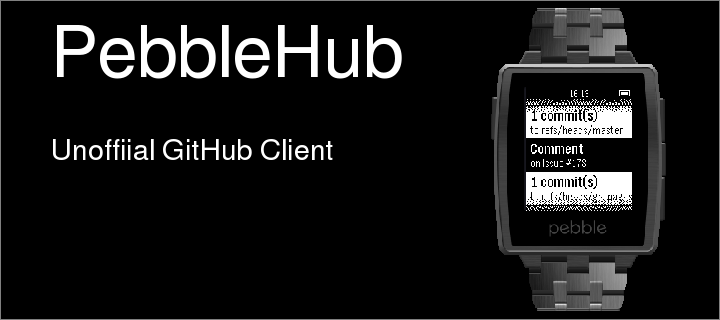
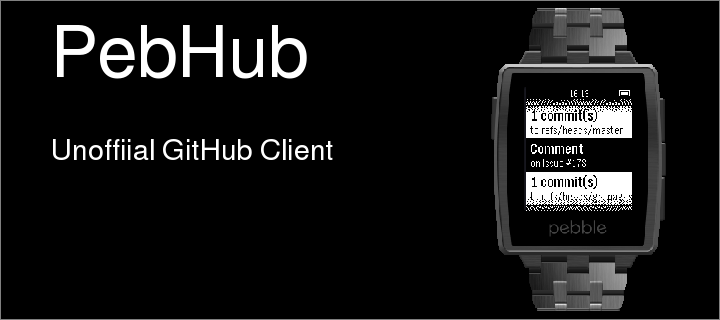
Renamed app from "PebbleHub" to "PebHub"
Added error message when the GitHub API token cannot be read

Changed region(s): [[0.2444, 0.0625, 0.5806, 0.25]]

diff --git a/src/app.js b/src/app.js
@@ -331,6 +331,16 @@ loadingCard.show();
 var githubAccessToken = Settings.option("githubAccessToken");
 console.log("Read GitHub Access Token " + githubAccessToken);
 
+// If the GitHub access token is undefined, display an error
+if (githubAccessToken === undefined)
+  {
+    var noTokenCard = new UI.Card({title:"No Access Token",
+                                   subtitle:"GitHub Access Token could not be read from settings. Please check the app settings on your phone and restart the app.",
+                                  });
+    loadingCard.hide();
+    noTokenCard.show();
+  }
+
 // Retrieve the user object for the owner of the access token
 var authenticatedUserUrl = 'https://api.github.com/user?access_token=' + githubAccessToken;
 var authenticated_user = get_json_data(authenticatedUserUrl);
@@ -362,4 +372,3 @@ else
     // Couldn't get user data. Show error
     display_error('Error retrieving authenticated user details', authenticated_user.error);
   }
-
